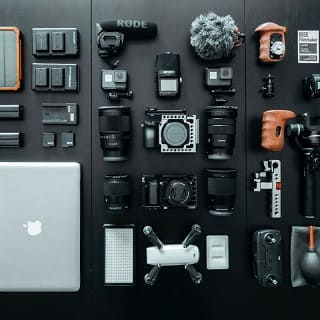
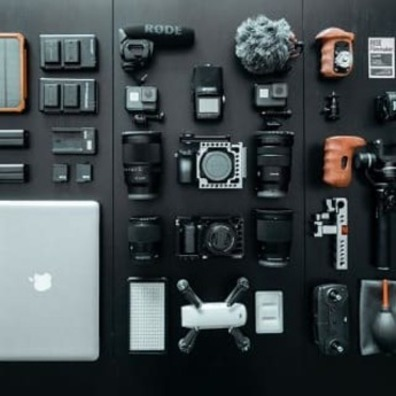
redemensioner les images

diff --git a/index.html b/index.html
@@ -9,7 +9,10 @@
     <link rel="shortcut icon" type="image/png" href="favicon.jpg">
 
 	<meta name="google-site-verification" content="HjZwD6bkoin-HS6VKxQYeVvGgUeXS2zRtf-ihksZ5B0" />
+
 	<meta name="robot" content="index,follow "/>
+
+
 	<link rel="canonical" href=" https://ihlamali.github.io/P4-agenceweb/index.html"/>
     
 	<link rel="stylesheet" type="text/css" href="./css/bootstrap.css">
@@ -152,9 +155,11 @@
 		<div class="container bloc-lg">
 			<div class="row tight-width-whitespace black-background">
 			<div class="col-sm-12">
-				<p class="mg-md text-center white ">
-					<strong>Nous souhaitons aider les entreprises de la région Lyonnaise à se développer et à connaître le succès. Nous travaillons pour aider les entreprises locales à attirer de nouveaux clients .</strong>
-				</p>
+				<h2 class="mg-md text-center white" >Nos valeurs</h2>
+
+				<h3 class="mg-md text-center white ">
+					<strong> Nous souhaitons aider les entreprises de la région Lyonnaise à se développer et à connaître le succès. Nous travaillons pour aider les entreprises locales à attirer de nouveaux clients .</strong>
+				</h3>
 				<p class="text-center white">
 					Nous aimons collaborer avec des entrepreneurs créatifs et des entreprises locale, qu’elles aient besoin de créer un site de A à Z ou de donner un coup de jeune à leur site. Que vous ayez besoin d’une identité visuelle complète ou d’une refonte de votre site, n’hésitez pas à nous contacter. Nous travaillerons ensemble pour créer des sites beau et bien structurés, qui seront facilement trouvable sur les moteurs de recherche. <br><br><a class="ltc-white bold-link" href="page2.html">Contactez notre équipe</a><br>
 				</p>
@@ -165,7 +170,7 @@
 	<!-- bloc-3-what-i-do END -->
 
 	<!-- bloc-4-portfolio -->
-	<div class="bloc bgc-white bg-lines-h2-bg bg-repeat l-bloc" id="bloc-4-portfolio">
+	<section class="bloc bgc-white bg-lines-h2-bg bg-repeat l-bloc" id="bloc-4-portfolio">
 		<div class="container bloc-lg">
 			<div class="row">
 				<div class="col-sm-12 text-center">
@@ -175,7 +180,7 @@
 				</div>
 			</div>
 
-			<article class="row tight-width-whitespace portfolio-row">
+			<div class="row tight-width-whitespace portfolio-row">
 				<div class="col-sm-6">
 					<a href="#" data-lightbox="img/1.jpg" data-gallery-id="gallery-1" data-caption="Refonte d'un site web pour un journal local" data-frame="snapshot-lb"><img src="img/1.jpg" alt="des magazines ouvert" class="img-responsive portfolio-thumb" /></a>
 						<h3 class="mg-md text-center">
@@ -185,8 +190,8 @@
 							Nous avons créé une nouvelle identité visuelle pour un journal lyonnais.
 						</p>
 				</div>
-			</article>
-			<article>
+			
+			
 				<div class="col-sm-6">
 						<a href="#" data-lightbox="img/2.jpg" data-gallery-id="gallery-1" data-caption="Création d'un site web pour photographes" data-frame="snapshot-lb"><img src="img/2.jpg" class="img-responsive portfolio-thumb" alt="une fille avec son appareil  photos" /></a>
 						<h3 class="mg-md text-center">
@@ -196,9 +201,9 @@
 									Nous avons conçu la plateforme idéale pour laisser place aux clichés des photographes.
 						</p>
 				</div>
-			</article>
+			</div>
 
-			<article class="row tight-width-whitespace portfolio-row text-justify">
+			<div class="row tight-width-whitespace portfolio-row ">
 				<div class="col-sm-6">
 						<a href="#" data-lightbox="img/3.jpeg" data-gallery-id="gallery-1" data-caption="Création d'un site internet pour un voyageur" data-frame="snapshot-lb"><img src="img/3.jpeg" class="img-responsive portfolio-thumb" alt="un ordinateur ,appareil photos avec leurs accessoirs "/></a>
 						<h3 class="mg-md text-center">
@@ -208,9 +213,10 @@
 								Nous avons élaboré un site internet et des illustrations pour sublimer les vidéos et les articles de ce voyageur.
 						</p>
 				</div>
-			</article>
+			
+			
 				<div class="col-sm-6">
-						<a href="#" data-lightbox="img/4.jpeg" data-gallery-id="gallery-1" data-caption="Conception d'un site pour une agence de mariage" data-frame="snapshot-lb"><img src="img/4.jpeg" class="img-responsive portfolio-thumb text-justify" alt="une table de travaille avec un ordinateur et accessoirs d'emballage de carte d'invitation,une boite emballer cadeaux  " /></a>
+						<a href="#" data-lightbox="img/4.jpeg" data-gallery-id="gallery-1" data-caption="Conception d'un site pour une agence de mariage" data-frame="snapshot-lb"><img src="img/4.jpeg" class="img-responsive portfolio-thumb" alt="une table de travaille avec un ordinateur et accessoirs d'emballage de carte d'invitation,une boite emballer cadeaux  " /></a>
 							<h3 class="mg-md text-center">
 							Conception d'un site pour une agence de mariage
 							</h3>
@@ -218,9 +224,9 @@
 									Nous avons travaillé avec cette agence pour créer un site internet permettant la présentation détaillée de leurs prestations.
 							</p>
 				</div>
-			
+			</div>
 		</div>
-	</div>
+	</section>
 
 	<!-- bloc-4-portfolio END -->
 
